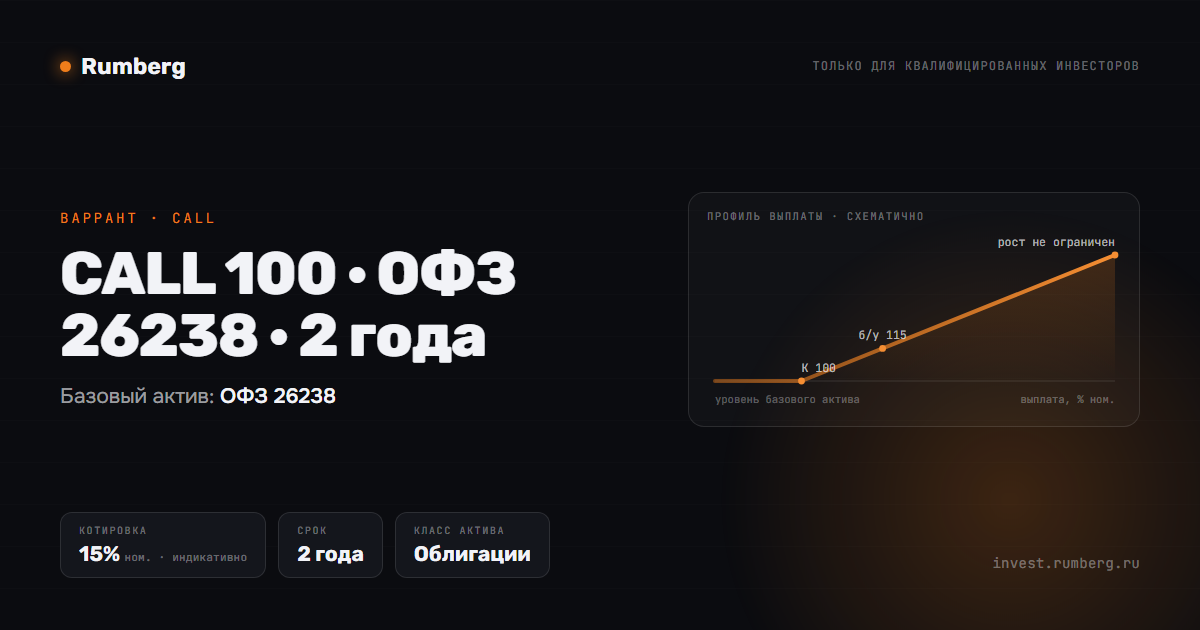
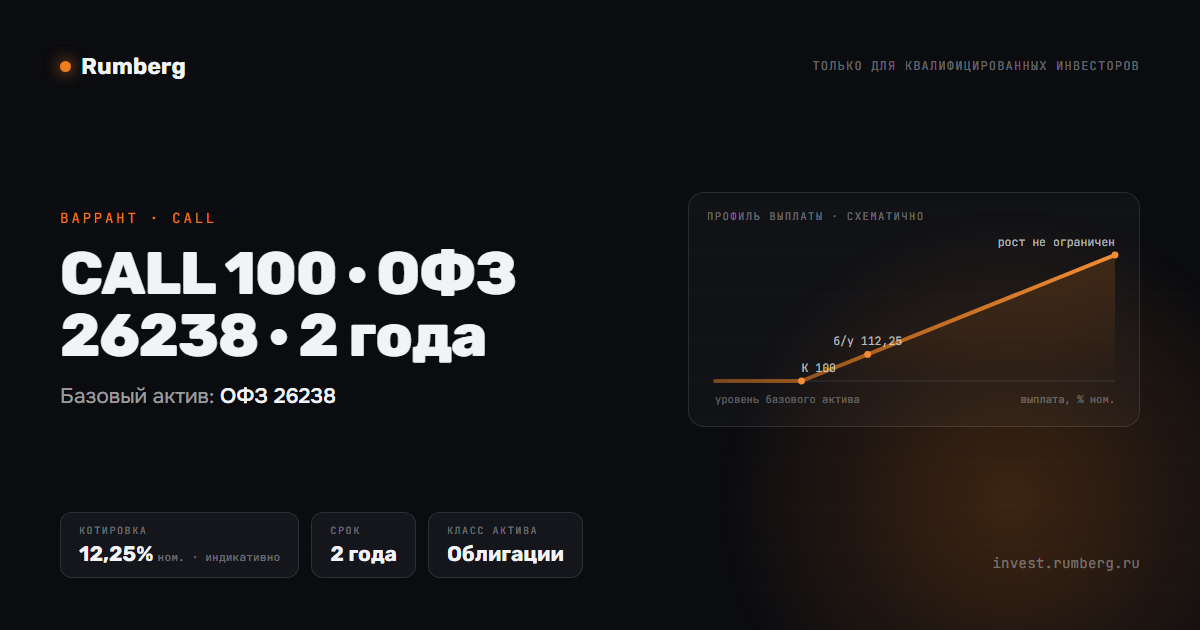
Доска: коллы на ОФЗ 26238 и 26248 по офферу рынка ÷ 0,8
Оффер рынка 19.10.2026, 2 года, делим на 0,8 и округляем вверх до 0,25:
- ОФЗ 26238 CALL 100: 9,8 → 12,25% (было 15%)
- ОФЗ 26238 CALL 105: 7,3 → 9,25% (было 10%)
- ОФЗ 26248 CALL 100: 7,9 → 10% (новый продукт)
- ОФЗ 26248 CALL 105: 5,5 → 7% (новый продукт)

Уровень актива по Мосбирже на 19.10: 26238 — 51,5% ном., 26248 — 79,4% ном.
Коллы на 26238 на 3 года не пересчитывались. Те же котировки внесены в
update_site.py, чтобы перегенерация их не откатила. Превью p/, обложки og/
и пререндер доски и главной пересобраны.

Changed region(s): [[0.0617, 0.8143, 0.4933, 0.9048], [0.7092, 0.5127, 0.7708, 0.573]]

diff --git a/board.html b/board.html
@@ -355,7 +355,7 @@
         <div class="chips chips-sub"><span class="chips" id="f-tenor"></span><span class="chips" id="f-ccy"></span></div>
       </div>
       <div class="list-top"><button class="ta" id="toggle-all" type="button"></button></div>
-      <div class="list" id="list"><!-- seo:start --><div class="seo-pre"><p>Доска инструментов Rumberg: 125 структурных продуктов для квалифицированных инвесторов. Котировки индикативные, обновляются по мере пересчёта прайсинга.</p><h2>Дисконтные облигации</h2><ul><li>Дисконтная облигация на ВЭБ.РФ · 3 года.</li><li>Дисконтная облигация на ВЭБ.РФ · 5 лет.</li><li>Дисконтная облигация на Газпром нефть · 3 года.</li><li>Дисконтная облигация на Газпром нефть · 5 лет.</li><li>Дисконтная облигация на Магнит · 3 года.</li><li>Дисконтная облигация на Магнит · 5 лет.</li><li>Дисконтная облигация на Ростелеком · 3 года.</li><li>Дисконтная облигация на Ростелеком · 5 лет.</li><li>Дисконтная облигация на Северсталь · 3 года.</li><li>Дисконтная облигация на Северсталь · 5 лет.</li></ul><h2>Облигации с защитой капитала</h2><ul><li>Защита капитала · MU · 2 года, базовый актив — Micron Technology (MU), валюта USD.</li><li>Защита капитала · MU · до +50% · 2 года, базовый актив — Micron Technology (MU), валюта USD.</li><li>Защита капитала · QCOM · 2 года, базовый актив — Qualcomm (QCOM), валюта USD.</li><li>Защита капитала · QCOM · до +50% · 2 года, базовый актив — Qualcomm (QCOM), валюта USD.</li><li>Защита капитала · DELL · 2 года, базовый актив — Dell Technologies (DELL), валюта USD.</li><li>Защита капитала · DELL · до +50% · 2 года, базовый актив — Dell Technologies (DELL), валюта USD.</li><li>Защита капитала · SMCI · 2 года, базовый актив — Super Micro Computer (SMCI), валюта USD.</li><li>Защита капитала · SMCI · до +50% · 2 года, базовый актив — Super Micro Computer (SMCI), валюта USD.</li><li>Защита капитала · ORCL · 2 года, базовый актив — Oracle (ORCL), валюта USD.</li><li>Защита капитала · ORCL · до +50% · 2 года, базовый актив — Oracle (ORCL), валюта USD.</li><li>Защита капитала · MU · 3 года, базовый актив — Micron Technology (MU), валюта USD.</li><li>Защита капитала · MU · до +50% · 3 года, базовый актив — Micron Technology (MU), валюта USD.</li><li>Защита капитала · QCOM · 3 года, базовый актив — Qualcomm (QCOM), валюта USD.</li><li>Защита капитала · QCOM · до +50% · 3 года, базовый актив — Qualcomm (QCOM), валюта USD.</li><li>Защита капитала · DELL · 3 года, базовый актив — Dell Technologies (DELL), валюта USD.</li><li>Защита капитала · DELL · до +50% · 3 года, базовый актив — Dell Technologies (DELL), валюта USD.</li><li>Защита капитала · SMCI · 3 года, базовый актив — Super Micro Computer (SMCI), валюта USD.</li><li>Защита капитала · SMCI · до +50% · 3 года, базовый актив — Super Micro Computer (SMCI), валюта USD.</li><li>Защита капитала · ORCL · 3 года, базовый актив — Oracle (ORCL), валюта USD.</li><li>Защита капитала · ORCL · до +50% · 3 года, базовый актив — Oracle (ORCL), валюта USD.</li><li>Защита капитала · худшая из корзины · 1 год, базовый актив — Полюс / Сбербанк / Лукойл.</li><li>Защита капитала · худшая из корзины · 2 года, базовый актив — Полюс / Сбербанк / Лукойл.</li><li>Защита капитала · Сбербанк · 1 год.</li><li>Защита капитала · Лукойл · 1 год.</li><li>Защита капитала · Полюс · 1 год.</li><li>Защита капитала · Сбербанк · 2 года.</li><li>Защита капитала · Лукойл · 2 года.</li><li>Защита капитала · Полюс · 2 года.</li><li>Защита капитала · ОФЗ 26238 · 2 года.</li><li>Защита капитала · ОФЗ 26238 · рост от +5% · 2 года.</li><li>Защита капитала · CSI 300 · 2 года.</li><li>Защита капитала · CSI 300 · 3 года.</li><li>Защита капитала · S&amp;P 500 · 2 года.</li><li>Защита капитала · S&amp;P 500 · 3 года.</li><li>Защита капитала · ОФЗ 26238 · 3 года.</li><li>Защита капитала · ОФЗ 26248 · 2 года.</li></ul><h2>Варранты</h2><ul><li>CALL 100 · ОФЗ 26238 · 2 года.</li><li>CALL 100 · ОФЗ 26238 · 3 года.</li><li>CALL 105 · ОФЗ 26238 · 2 года.</li><li>CALL 105 · ОФЗ 26238 · 3 года.</li><li>CALL 100 · NBIS · 2 года, базовый актив — Nebius Group (NBIS), валюта USD.</li><li>CALL 100 · NBIS · 3 года, базовый актив — Nebius Group (NBIS), валюта USD.</li><li>CS 100–150 · NBIS · 2 года, базовый актив — Nebius Group (NBIS), валюта USD.</li><li>CS 100–150 · NBIS · 3 года, базовый актив — Nebius Group (NBIS), валюта USD.</li><li>CALL 100 · NVDA · 2 года, базовый актив — NVIDIA (NVDA), валюта USD.</li><li>CALL 100 · NVDA · 3 года, базовый актив — NVIDIA (NVDA), валюта USD.</li><li>CS 100–150 · NVDA · 2 года, базовый актив — NVIDIA (NVDA), валюта USD.</li><li>CS 100–150 · NVDA · 3 года, базовый актив — NVIDIA (NVDA), валюта USD.</li><li>CALL 100 · SPY · 2 года, базовый актив — S&amp;P 500 (SPY), валюта USD.</li><li>CALL 100 · SPY · 3 года, базовый актив — S&amp;P 500 (SPY), валюта USD.</li><li>CALL 100 · GLD · 2 года, базовый актив — Золото (GLD), валюта USD.</li><li>CALL 100 · GLD · 3 года, базовый актив — Золото (GLD), валюта USD.</li><li>CALL 100 · IBIT · 2 года, базовый актив — Bitcoin (IBIT), валюта USD.</li><li>CALL 100 · IBIT · 3 года, базовый актив — Bitcoin (IBIT), валюта USD.</li><li>CS 100–150 · IBIT · 2 года, базовый актив — Bitcoin (IBIT), валюта USD.</li><li>CS 100–150 · IBIT · 3 года, базовый актив — Bitcoin (IBIT), валюта USD.</li><li>CALL 100 · CSI 300 · 2 года, валюта USD.</li><li>CALL 100 · CSI 300 · 3 года, валюта USD.</li><li>CALL 100 · Hang Seng · 2 года, валюта USD.</li><li>CALL 100 · Hang Seng · 3 года, валюта USD.</li><li>CALL 100 · MU · 2 года, базовый актив — Micron Technology (MU), валюта USD.</li><li>CS 100–150 · MU · 2 года, базовый актив — Micron Technology (MU), валюта USD.</li><li>CALL 100 · QCOM · 2 года, базовый актив — Qualcomm (QCOM), валюта USD.</li><li>CS 100–150 · QCOM · 2 года, базовый актив — Qualcomm (QCOM), валюта USD.</li><li>CALL 100 · DELL · 2 года, базовый актив — Dell Technologies (DELL), валюта USD.</li><li>CS 100–150 · DELL · 2 года, базовый актив — Dell Technologies (DELL), валюта USD.</li><li>CALL 100 · SMCI · 2 года, базовый актив — Super Micro Computer (SMCI), валюта USD.</li><li>CS 100–150 · SMCI · 2 года, базовый актив — Super Micro Computer (SMCI), валюта USD.</li><li>CALL 100 · ORCL · 2 года, базовый актив — Oracle (ORCL), валюта USD.</li><li>CS 100–150 · ORCL · 2 года, базовый актив — Oracle (ORCL), валюта USD.</li><li>CALL 100 · MU · 3 года, базовый актив — Micron Technology (MU), валюта USD.</li><li>CS 100–150 · MU · 3 года, базовый актив — Micron Technology (MU), валюта USD.</li><li>CALL 100 · QCOM · 3 года, базовый актив — Qualcomm (QCOM), валюта USD.</li><li>CS 100–150 · QCOM · 3 года, базовый актив — Qualcomm (QCOM), валюта USD.</li><li>CALL 100 · DELL · 3 года, базовый актив — Dell Technologies (DELL), валюта USD.</li><li>CS 100–150 · DELL · 3 года, базовый актив — Dell Technologies (DELL), валюта USD.</li><li>CALL 100 · SMCI · 3 года, базовый актив — Super Micro Computer (SMCI), валюта USD.</li><li>CS 100–150 · SMCI · 3 года, базовый актив — Super Micro Computer (SMCI), валюта USD.</li><li>CALL 100 · ORCL · 3 года, базовый актив — Oracle (ORCL), валюта USD.</li><li>CS 100–150 · ORCL · 3 года, базовый актив — Oracle (ORCL), валюта USD.</li><li>CALL 100 · худшая из корзины · 1 год, базовый актив — Полюс / Сбербанк / Лукойл.</li><li>CALL 100 · худшая из корзины · 2 года, базовый актив — Полюс / Сбербанк / Лукойл.</li><li>CALL 100 · Яндекс · 1 год.</li><li>CALL 100 · Яндекс · 2 года.</li><li>PUT 100 · Яндекс · 1 год.</li><li>PUT 100 · Яндекс · 2 года.</li><li>CALL 100 · худшая из корзины · 2 года, базовый актив — Яндекс / Новатэк / Лукойл.</li><li>CALL 100 · Сбербанк · 1 год.</li><li>CALL 100 · Лукойл · 1 год.</li><li>CALL 100 · Полюс · 1 год.</li><li>CALL 100 · Сбербанк · 2 года.</li><li>CALL 100 · Лукойл · 2 года.</li><li>CALL 100 · Полюс · 2 года.</li><li>Call, базовый актив — CNYRUB, срок 1 год.</li><li>CALL 100 · Газпром · 1 год.</li><li>CALL 100 · ДОМ.РФ · 1 год.</li><li>CALL 100 · ОФЗ 26254 · 2 года, базовый актив — ОФЗ-26254.</li><li>CALL 105 · ОФЗ 26254 · 2 года, базовый актив — ОФЗ-26254.</li><li>Средняя динамика корзины · 1 год, базовый актив — Газпром/Лукойл/Мечел/Озон/Полюс/ВК.</li><li>Средняя динамика корзины · 2 года, базовый актив — Газпром/Лукойл/Мечел/Озон/Полюс/ВК.</li><li>Средняя динамика корзины · 1 год, базовый актив — Лукойл/Озон/Полюс.</li><li>Средняя динамика корзины · 2 года, базовый актив — Лукойл/Озон/Полюс.</li><li>CALL 100 · худшая из корзины · 3 года, базовый актив — Amazon / Alphabet / Meta / Microsoft / Oracle, валюта USD.</li><li>CALL 100 · худшая из корзины · 3 года, базовый актив — Amazon / Alphabet / Meta / Microsoft, валюта USD.</li></ul><h2>Бустеры</h2><ul><li>Бустер · Яндекс · 9 месяцев.</li><li>Бустер · Сбербанк · 9 месяцев.</li><li>Бустер · Лукойл · 9 месяцев.</li><li>Бустер · Т-Банк · 9 месяцев.</li></ul><h2>Автоколлы</h2><ul><li>Автоколл · Полупроводники США · 3 года, базовый актив — NVDA / AMD / INTC, валюта USD.</li><li>Автоколл · Big Tech США · 3 года, базовый актив — NVDA / TSLA / AMZN / GOOGL, валюта USD.</li></ul><h2>Реверс-конвертиблы</h2><ul><li>Реверс-конвертибл на Газпром · 6 месяцев.</li></ul><h2>Реверс-конвертиблы с условным купоном</h2><ul><li>Условный купон 28,5% · ОФЗ 26248 · 1 год.</li></ul><h2>Купонные варранты</h2><ul><li>Купонный варрант CALL 105 · ОФЗ 26248 · 1,5 года.</li><li>Купонный варрант CALL 105 · USDRUB · 1 год.</li><li>Купонный варрант CALL 105 · USDRUB · 2 года.</li></ul></div><!-- seo:end --></div>
+      <div class="list" id="list"><!-- seo:start --><div class="seo-pre"><p>Доска инструментов Rumberg: 127 структурных продуктов для квалифицированных инвесторов. Котировки индикативные, обновляются по мере пересчёта прайсинга.</p><h2>Дисконтные облигации</h2><ul><li>Дисконтная облигация на ВЭБ.РФ · 3 года.</li><li>Дисконтная облигация на ВЭБ.РФ · 5 лет.</li><li>Дисконтная облигация на Газпром нефть · 3 года.</li><li>Дисконтная облигация на Газпром нефть · 5 лет.</li><li>Дисконтная облигация на Магнит · 3 года.</li><li>Дисконтная облигация на Магнит · 5 лет.</li><li>Дисконтная облигация на Ростелеком · 3 года.</li><li>Дисконтная облигация на Ростелеком · 5 лет.</li><li>Дисконтная облигация на Северсталь · 3 года.</li><li>Дисконтная облигация на Северсталь · 5 лет.</li></ul><h2>Облигации с защитой капитала</h2><ul><li>Защита капитала · MU · 2 года, базовый актив — Micron Technology (MU), валюта USD.</li><li>Защита капитала · MU · до +50% · 2 года, базовый актив — Micron Technology (MU), валюта USD.</li><li>Защита капитала · QCOM · 2 года, базовый актив — Qualcomm (QCOM), валюта USD.</li><li>Защита капитала · QCOM · до +50% · 2 года, базовый актив — Qualcomm (QCOM), валюта USD.</li><li>Защита капитала · DELL · 2 года, базовый актив — Dell Technologies (DELL), валюта USD.</li><li>Защита капитала · DELL · до +50% · 2 года, базовый актив — Dell Technologies (DELL), валюта USD.</li><li>Защита капитала · SMCI · 2 года, базовый актив — Super Micro Computer (SMCI), валюта USD.</li><li>Защита капитала · SMCI · до +50% · 2 года, базовый актив — Super Micro Computer (SMCI), валюта USD.</li><li>Защита капитала · ORCL · 2 года, базовый актив — Oracle (ORCL), валюта USD.</li><li>Защита капитала · ORCL · до +50% · 2 года, базовый актив — Oracle (ORCL), валюта USD.</li><li>Защита капитала · MU · 3 года, базовый актив — Micron Technology (MU), валюта USD.</li><li>Защита капитала · MU · до +50% · 3 года, базовый актив — Micron Technology (MU), валюта USD.</li><li>Защита капитала · QCOM · 3 года, базовый актив — Qualcomm (QCOM), валюта USD.</li><li>Защита капитала · QCOM · до +50% · 3 года, базовый актив — Qualcomm (QCOM), валюта USD.</li><li>Защита капитала · DELL · 3 года, базовый актив — Dell Technologies (DELL), валюта USD.</li><li>Защита капитала · DELL · до +50% · 3 года, базовый актив — Dell Technologies (DELL), валюта USD.</li><li>Защита капитала · SMCI · 3 года, базовый актив — Super Micro Computer (SMCI), валюта USD.</li><li>Защита капитала · SMCI · до +50% · 3 года, базовый актив — Super Micro Computer (SMCI), валюта USD.</li><li>Защита капитала · ORCL · 3 года, базовый актив — Oracle (ORCL), валюта USD.</li><li>Защита капитала · ORCL · до +50% · 3 года, базовый актив — Oracle (ORCL), валюта USD.</li><li>Защита капитала · худшая из корзины · 1 год, базовый актив — Полюс / Сбербанк / Лукойл.</li><li>Защита капитала · худшая из корзины · 2 года, базовый актив — Полюс / Сбербанк / Лукойл.</li><li>Защита капитала · Сбербанк · 1 год.</li><li>Защита капитала · Лукойл · 1 год.</li><li>Защита капитала · Полюс · 1 год.</li><li>Защита капитала · Сбербанк · 2 года.</li><li>Защита капитала · Лукойл · 2 года.</li><li>Защита капитала · Полюс · 2 года.</li><li>Защита капитала · ОФЗ 26238 · 2 года.</li><li>Защита капитала · ОФЗ 26238 · рост от +5% · 2 года.</li><li>Защита капитала · CSI 300 · 2 года.</li><li>Защита капитала · CSI 300 · 3 года.</li><li>Защита капитала · S&amp;P 500 · 2 года.</li><li>Защита капитала · S&amp;P 500 · 3 года.</li><li>Защита капитала · ОФЗ 26238 · 3 года.</li><li>Защита капитала · ОФЗ 26248 · 2 года.</li></ul><h2>Варранты</h2><ul><li>CALL 100 · ОФЗ 26238 · 2 года.</li><li>CALL 100 · ОФЗ 26238 · 3 года.</li><li>CALL 105 · ОФЗ 26238 · 2 года.</li><li>CALL 105 · ОФЗ 26238 · 3 года.</li><li>CALL 100 · ОФЗ 26248 · 2 года.</li><li>CALL 105 · ОФЗ 26248 · 2 года.</li><li>CALL 100 · NBIS · 2 года, базовый актив — Nebius Group (NBIS), валюта USD.</li><li>CALL 100 · NBIS · 3 года, базовый актив — Nebius Group (NBIS), валюта USD.</li><li>CS 100–150 · NBIS · 2 года, базовый актив — Nebius Group (NBIS), валюта USD.</li><li>CS 100–150 · NBIS · 3 года, базовый актив — Nebius Group (NBIS), валюта USD.</li><li>CALL 100 · NVDA · 2 года, базовый актив — NVIDIA (NVDA), валюта USD.</li><li>CALL 100 · NVDA · 3 года, базовый актив — NVIDIA (NVDA), валюта USD.</li><li>CS 100–150 · NVDA · 2 года, базовый актив — NVIDIA (NVDA), валюта USD.</li><li>CS 100–150 · NVDA · 3 года, базовый актив — NVIDIA (NVDA), валюта USD.</li><li>CALL 100 · SPY · 2 года, базовый актив — S&amp;P 500 (SPY), валюта USD.</li><li>CALL 100 · SPY · 3 года, базовый актив — S&amp;P 500 (SPY), валюта USD.</li><li>CALL 100 · GLD · 2 года, базовый актив — Золото (GLD), валюта USD.</li><li>CALL 100 · GLD · 3 года, базовый актив — Золото (GLD), валюта USD.</li><li>CALL 100 · IBIT · 2 года, базовый актив — Bitcoin (IBIT), валюта USD.</li><li>CALL 100 · IBIT · 3 года, базовый актив — Bitcoin (IBIT), валюта USD.</li><li>CS 100–150 · IBIT · 2 года, базовый актив — Bitcoin (IBIT), валюта USD.</li><li>CS 100–150 · IBIT · 3 года, базовый актив — Bitcoin (IBIT), валюта USD.</li><li>CALL 100 · CSI 300 · 2 года, валюта USD.</li><li>CALL 100 · CSI 300 · 3 года, валюта USD.</li><li>CALL 100 · Hang Seng · 2 года, валюта USD.</li><li>CALL 100 · Hang Seng · 3 года, валюта USD.</li><li>CALL 100 · MU · 2 года, базовый актив — Micron Technology (MU), валюта USD.</li><li>CS 100–150 · MU · 2 года, базовый актив — Micron Technology (MU), валюта USD.</li><li>CALL 100 · QCOM · 2 года, базовый актив — Qualcomm (QCOM), валюта USD.</li><li>CS 100–150 · QCOM · 2 года, базовый актив — Qualcomm (QCOM), валюта USD.</li><li>CALL 100 · DELL · 2 года, базовый актив — Dell Technologies (DELL), валюта USD.</li><li>CS 100–150 · DELL · 2 года, базовый актив — Dell Technologies (DELL), валюта USD.</li><li>CALL 100 · SMCI · 2 года, базовый актив — Super Micro Computer (SMCI), валюта USD.</li><li>CS 100–150 · SMCI · 2 года, базовый актив — Super Micro Computer (SMCI), валюта USD.</li><li>CALL 100 · ORCL · 2 года, базовый актив — Oracle (ORCL), валюта USD.</li><li>CS 100–150 · ORCL · 2 года, базовый актив — Oracle (ORCL), валюта USD.</li><li>CALL 100 · MU · 3 года, базовый актив — Micron Technology (MU), валюта USD.</li><li>CS 100–150 · MU · 3 года, базовый актив — Micron Technology (MU), валюта USD.</li><li>CALL 100 · QCOM · 3 года, базовый актив — Qualcomm (QCOM), валюта USD.</li><li>CS 100–150 · QCOM · 3 года, базовый актив — Qualcomm (QCOM), валюта USD.</li><li>CALL 100 · DELL · 3 года, базовый актив — Dell Technologies (DELL), валюта USD.</li><li>CS 100–150 · DELL · 3 года, базовый актив — Dell Technologies (DELL), валюта USD.</li><li>CALL 100 · SMCI · 3 года, базовый актив — Super Micro Computer (SMCI), валюта USD.</li><li>CS 100–150 · SMCI · 3 года, базовый актив — Super Micro Computer (SMCI), валюта USD.</li><li>CALL 100 · ORCL · 3 года, базовый актив — Oracle (ORCL), валюта USD.</li><li>CS 100–150 · ORCL · 3 года, базовый актив — Oracle (ORCL), валюта USD.</li><li>CALL 100 · худшая из корзины · 1 год, базовый актив — Полюс / Сбербанк / Лукойл.</li><li>CALL 100 · худшая из корзины · 2 года, базовый актив — Полюс / Сбербанк / Лукойл.</li><li>CALL 100 · Яндекс · 1 год.</li><li>CALL 100 · Яндекс · 2 года.</li><li>PUT 100 · Яндекс · 1 год.</li><li>PUT 100 · Яндекс · 2 года.</li><li>CALL 100 · худшая из корзины · 2 года, базовый актив — Яндекс / Новатэк / Лукойл.</li><li>CALL 100 · Сбербанк · 1 год.</li><li>CALL 100 · Лукойл · 1 год.</li><li>CALL 100 · Полюс · 1 год.</li><li>CALL 100 · Сбербанк · 2 года.</li><li>CALL 100 · Лукойл · 2 года.</li><li>CALL 100 · Полюс · 2 года.</li><li>Call, базовый актив — CNYRUB, срок 1 год.</li><li>CALL 100 · Газпром · 1 год.</li><li>CALL 100 · ДОМ.РФ · 1 год.</li><li>CALL 100 · ОФЗ 26254 · 2 года, базовый актив — ОФЗ-26254.</li><li>CALL 105 · ОФЗ 26254 · 2 года, базовый актив — ОФЗ-26254.</li><li>Средняя динамика корзины · 1 год, базовый актив — Газпром/Лукойл/Мечел/Озон/Полюс/ВК.</li><li>Средняя динамика корзины · 2 года, базовый актив — Газпром/Лукойл/Мечел/Озон/Полюс/ВК.</li><li>Средняя динамика корзины · 1 год, базовый актив — Лукойл/Озон/Полюс.</li><li>Средняя динамика корзины · 2 года, базовый актив — Лукойл/Озон/Полюс.</li><li>CALL 100 · худшая из корзины · 3 года, базовый актив — Amazon / Alphabet / Meta / Microsoft / Oracle, валюта USD.</li><li>CALL 100 · худшая из корзины · 3 года, базовый актив — Amazon / Alphabet / Meta / Microsoft, валюта USD.</li></ul><h2>Бустеры</h2><ul><li>Бустер · Яндекс · 9 месяцев.</li><li>Бустер · Сбербанк · 9 месяцев.</li><li>Бустер · Лукойл · 9 месяцев.</li><li>Бустер · Т-Банк · 9 месяцев.</li></ul><h2>Автоколлы</h2><ul><li>Автоколл · Полупроводники США · 3 года, базовый актив — NVDA / AMD / INTC, валюта USD.</li><li>Автоколл · Big Tech США · 3 года, базовый актив — NVDA / TSLA / AMZN / GOOGL, валюта USD.</li></ul><h2>Реверс-конвертиблы</h2><ul><li>Реверс-конвертибл на Газпром · 6 месяцев.</li></ul><h2>Реверс-конвертиблы с условным купоном</h2><ul><li>Условный купон 28,5% · ОФЗ 26248 · 1 год.</li></ul><h2>Купонные варранты</h2><ul><li>Купонный варрант CALL 105 · ОФЗ 26248 · 1,5 года.</li><li>Купонный варрант CALL 105 · USDRUB · 1 год.</li><li>Купонный варрант CALL 105 · USDRUB · 2 года.</li></ul></div><!-- seo:end --></div>
       <div class="cmp-bar" id="cmp-bar">
         <span class="cnt" id="cmp-cnt"></span><span id="cmp-hint"></span>
         <button class="rst" id="cmp-reset" type="button">Сбросить</button>

diff --git a/data/instruments.js b/data/instruments.js
@@ -1,8 +1,8 @@
 // Файл сгенерирован update_site.py — руками не править (перезапишется при следующем запуске).
 // Продукты с "src": "sales" добавлены через админку и сохраняются при перегенерации.
-// Обновлено: 2026-10-16
+// Обновлено: 2026-10-19
 window.SITE_DATA = {
-  "updated": "2026-10-16",
+  "updated": "2026-10-19",
   "instruments": [
     {
       "id": "RCD-OFZ248-K100-1Y",
@@ -85,10 +85,10 @@ window.SITE_DATA = {
       "cls": "Облигации",
       "currency": "RUB",
       "strike": 100,
-      "uRef": "52% ном.",
+      "uRef": "51,5% ном.",
       "spot": 100,
       "tenor": "2 года",
-      "quote": 15,
+      "quote": 12.25,
       "chg": 0,
       "minNom": 1000000
     },
@@ -117,10 +117,10 @@ window.SITE_DATA = {
       "cls": "Облигации",
       "currency": "RUB",
       "strike": 105,
-      "uRef": "52% ном.",
+      "uRef": "51,5% ном.",
       "spot": 100,
       "tenor": "2 года",
-      "quote": 10,
+      "quote": 9.25,
       "chg": 0,
       "minNom": 1000000
     },
@@ -137,6 +137,38 @@ window.SITE_DATA = {
       "spot": 100,
       "tenor": "3 года",
       "quote": 12,
+      "chg": 0,
+      "minNom": 1000000
+    },
+    {
+      "id": "W-OFZ248-C100-1028",
+      "type": "warrant",
+      "structure": "call",
+      "name": "CALL 100 · ОФЗ 26248 · 2 года",
+      "underlying": "ОФЗ 26248",
+      "cls": "Облигации",
+      "currency": "RUB",
+      "strike": 100,
+      "uRef": "79,4% ном.",
+      "spot": 100,
+      "tenor": "2 года",
+      "quote": 10,
+      "chg": 0,
+      "minNom": 1000000
+    },
+    {
+      "id": "W-OFZ248-C105-1028",
+      "type": "warrant",
+      "structure": "call",
+      "name": "CALL 105 · ОФЗ 26248 · 2 года",
+      "underlying": "ОФЗ 26248",
+      "cls": "Облигации",
+      "currency": "RUB",
+      "strike": 105,
+      "uRef": "79,4% ном.",
+      "spot": 100,
+      "tenor": "2 года",
+      "quote": 7,
       "chg": 0,
       "minNom": 1000000
     },

diff --git a/p/W-OFZ248-C100-1028.html b/p/W-OFZ248-C100-1028.html
@@ -1,0 +1,25 @@
+<!DOCTYPE html>
+<html lang="ru">
+<head>
+<meta charset="utf-8">
+<meta name="viewport" content="width=device-width, initial-scale=1">
+<title>CALL 100 · ОФЗ 26248 · 2 года — Rumberg</title>
+<meta name="description" content="Варрант на ОФЗ 26248 · котировка 10% от номинала · Rumberg — структурные продукты для квалифицированных инвесторов">
+<meta property="og:type" content="website">
+<meta property="og:site_name" content="Rumberg">
+<meta property="og:locale" content="ru_RU">
+<meta property="og:title" content="CALL 100 · ОФЗ 26248 · 2 года">
+<meta property="og:description" content="Варрант на ОФЗ 26248 · котировка 10% от номинала · Rumberg — структурные продукты для квалифицированных инвесторов">
+<meta property="og:url" content="https://invest.rumberg.ru/p/W-OFZ248-C100-1028.html">
+<meta property="og:image" content="https://invest.rumberg.ru/og/W-OFZ248-C100-1028.png">
+<meta property="og:image:width" content="1200">
+<meta property="og:image:height" content="630">
+<meta property="og:image:alt" content="Rumberg — структурные продукты">
+<meta name="twitter:card" content="summary_large_image">
+<meta name="theme-color" content="#0B0C10">
+<link rel="canonical" href="https://invest.rumberg.ru/instrument.html?id=W-OFZ248-C100-1028">
+<script>location.replace("/instrument.html?id=W-OFZ248-C100-1028"+location.search.replace("?","&"));</script>
+<style>html,body{margin:0;height:100%}body{background:#0B0C10;color:rgba(242,243,247,.6);font-family:'Onest',system-ui,sans-serif;display:flex;align-items:center;justify-content:center;gap:8px}a{color:#EE7D1B}</style>
+</head>
+<body>Открываем продукт… <a href="/instrument.html?id=W-OFZ248-C100-1028">перейти вручную</a></body>
+</html>

diff --git a/p/W-OFZ248-C105-1028.html b/p/W-OFZ248-C105-1028.html
@@ -1,0 +1,25 @@
+<!DOCTYPE html>
+<html lang="ru">
+<head>
+<meta charset="utf-8">
+<meta name="viewport" content="width=device-width, initial-scale=1">
+<title>CALL 105 · ОФЗ 26248 · 2 года — Rumberg</title>
+<meta name="description" content="Варрант на ОФЗ 26248 · котировка 7% от номинала · Rumberg — структурные продукты для квалифицированных инвесторов">
+<meta property="og:type" content="website">
+<meta property="og:site_name" content="Rumberg">
+<meta property="og:locale" content="ru_RU">
+<meta property="og:title" content="CALL 105 · ОФЗ 26248 · 2 года">
+<meta property="og:description" content="Варрант на ОФЗ 26248 · котировка 7% от номинала · Rumberg — структурные продукты для квалифицированных инвесторов">
+<meta property="og:url" content="https://invest.rumberg.ru/p/W-OFZ248-C105-1028.html">
+<meta property="og:image" content="https://invest.rumberg.ru/og/W-OFZ248-C105-1028.png">
+<meta property="og:image:width" content="1200">
+<meta property="og:image:height" content="630">
+<meta property="og:image:alt" content="Rumberg — структурные продукты">
+<meta name="twitter:card" content="summary_large_image">
+<meta name="theme-color" content="#0B0C10">
+<link rel="canonical" href="https://invest.rumberg.ru/instrument.html?id=W-OFZ248-C105-1028">
+<script>location.replace("/instrument.html?id=W-OFZ248-C105-1028"+location.search.replace("?","&"));</script>
+<style>html,body{margin:0;height:100%}body{background:#0B0C10;color:rgba(242,243,247,.6);font-family:'Onest',system-ui,sans-serif;display:flex;align-items:center;justify-content:center;gap:8px}a{color:#EE7D1B}</style>
+</head>
+<body>Открываем продукт… <a href="/instrument.html?id=W-OFZ248-C105-1028">перейти вручную</a></body>
+</html>

diff --git a/index.html b/index.html
@@ -1356,7 +1356,7 @@
              читались бы как её метаданные -->
         <div class="nvbox">
           <div class="ch"><h2>Разделы</h2></div>
-          <nav id="rail-list" aria-label="Разделы"><!-- seo:rail:start --><p>Разделы витрины: сотрудничество — условия работы для финансовых институтов и агентов; дайджест инвестиционных идей; разборы тем и компаний; текущие продукты — доска прайсинга, 125 инструментов; размещённые выпуски, 62 выпуска; библиотека типов продуктов; события; о компании; выступления — интервью и эфиры на внешних площадках.</p><!-- seo:rail:end --></nav>
+          <nav id="rail-list" aria-label="Разделы"><!-- seo:rail:start --><p>Разделы витрины: сотрудничество — условия работы для финансовых институтов и агентов; дайджест инвестиционных идей; разборы тем и компаний; текущие продукты — доска прайсинга, 127 инструментов; размещённые выпуски, 62 выпуска; библиотека типов продуктов; события; о компании; выступления — интервью и эфиры на внешних площадках.</p><!-- seo:rail:end --></nav>
         </div>
         <div class="stamp" id="stamp"></div>
       </section>

diff --git a/p/W-OFZ238-C100-0728.html b/p/W-OFZ238-C100-0728.html
@@ -4,12 +4,12 @@
 <meta charset="utf-8">
 <meta name="viewport" content="width=device-width, initial-scale=1">
 <title>CALL 100 · ОФЗ 26238 · 2 года — Rumberg</title>
-<meta name="description" content="Варрант на ОФЗ 26238 · котировка 15% от номинала · Rumberg — структурные продукты для квалифицированных инвесторов">
+<meta name="description" content="Варрант на ОФЗ 26238 · котировка 12,25% от номинала · Rumberg — структурные продукты для квалифицированных инвесторов">
 <meta property="og:type" content="website">
 <meta property="og:site_name" content="Rumberg">
 <meta property="og:locale" content="ru_RU">
 <meta property="og:title" content="CALL 100 · ОФЗ 26238 · 2 года">
-<meta property="og:description" content="Варрант на ОФЗ 26238 · котировка 15% от номинала · Rumberg — структурные продукты для квалифицированных инвесторов">
+<meta property="og:description" content="Варрант на ОФЗ 26238 · котировка 12,25% от номинала · Rumberg — структурные продукты для квалифицированных инвесторов">
 <meta property="og:url" content="https://invest.rumberg.ru/p/W-OFZ238-C100-0728.html">
 <meta property="og:image" content="https://invest.rumberg.ru/og/W-OFZ238-C100-0728.png">
 <meta property="og:image:width" content="1200">

diff --git a/p/W-OFZ238-C105-0728.html b/p/W-OFZ238-C105-0728.html
@@ -4,12 +4,12 @@
 <meta charset="utf-8">
 <meta name="viewport" content="width=device-width, initial-scale=1">
 <title>CALL 105 · ОФЗ 26238 · 2 года — Rumberg</title>
-<meta name="description" content="Варрант на ОФЗ 26238 · котировка 10% от номинала · Rumberg — структурные продукты для квалифицированных инвесторов">
+<meta name="description" content="Варрант на ОФЗ 26238 · котировка 9,25% от номинала · Rumberg — структурные продукты для квалифицированных инвесторов">
 <meta property="og:type" content="website">
 <meta property="og:site_name" content="Rumberg">
 <meta property="og:locale" content="ru_RU">
 <meta property="og:title" content="CALL 105 · ОФЗ 26238 · 2 года">
-<meta property="og:description" content="Варрант на ОФЗ 26238 · котировка 10% от номинала · Rumberg — структурные продукты для квалифицированных инвесторов">
+<meta property="og:description" content="Варрант на ОФЗ 26238 · котировка 9,25% от номинала · Rumberg — структурные продукты для квалифицированных инвесторов">
 <meta property="og:url" content="https://invest.rumberg.ru/p/W-OFZ238-C105-0728.html">
 <meta property="og:image" content="https://invest.rumberg.ru/og/W-OFZ238-C105-0728.png">
 <meta property="og:image:width" content="1200">

diff --git a/update_site.py b/update_site.py
@@ -102,7 +102,10 @@ def build_protection():
 # Добавить базовый актив — строка в WARRANT_UNDERLYINGS + котировки в WARRANT_QUOTES.
 
 WARRANT_UNDERLYINGS = {
-    "OFZ238": dict(short="ОФЗ 26238", underlying="ОФЗ 26238",           cls="Облигации",  currency="RUB", uRef="52% ном."),
+    "OFZ238": dict(short="ОФЗ 26238", underlying="ОФЗ 26238",           cls="Облигации",  currency="RUB", uRef="51,5% ном."),
+    # Оффер рынка 19.10.2026 ÷ 0,8 (вверх до 0,25); у 26248 своя экспирация в id.
+    "OFZ248": dict(short="ОФЗ 26248", underlying="ОФЗ 26248",           cls="Облигации",  currency="RUB", uRef="79,4% ном.",
+                   expiry={2: ("19.10.2028", "1028")}),
     "NBIS":   dict(short="NBIS",      underlying="Nebius Group (NBIS)", cls="Акции США",  currency="USD", uRef="$205"),
     "NVDA":   dict(short="NVDA",      underlying="NVIDIA (NVDA)",       cls="Акции США",  currency="USD", uRef="$206"),
     "SPY":    dict(short="SPY",       underlying="S&P 500 (SPY)",       cls="Индекс",     currency="USD", uRef="$747"),
@@ -141,8 +144,9 @@ TENOR_META = {
 
 # Котировки из прайсера: (БА, структура, срок) -> (quote, chg). chg=0 — свежий прайс-лист.
 WARRANT_QUOTES = {
-    ("OFZ238", "call", 2): (15.00, 0), ("OFZ238", "call", 3): (16.00, 0),
-    ("OFZ238", "call105", 2): (10.00, 0), ("OFZ238", "call105", 3): (12.00, 0),
+    ("OFZ238", "call", 2): (12.25, 0), ("OFZ238", "call", 3): (16.00, 0),
+    ("OFZ238", "call105", 2): (9.25, 0), ("OFZ238", "call105", 3): (12.00, 0),
+    ("OFZ248", "call", 2): (10.00, 0), ("OFZ248", "call105", 2): (7.00, 0),
 
     ("NBIS", "call", 2): (70.50, 0), ("NBIS", "call", 3): (86.50, 0),
     ("NBIS", "cs", 2): (14.25, 0),   ("NBIS", "cs", 3): (22.25, 0),
